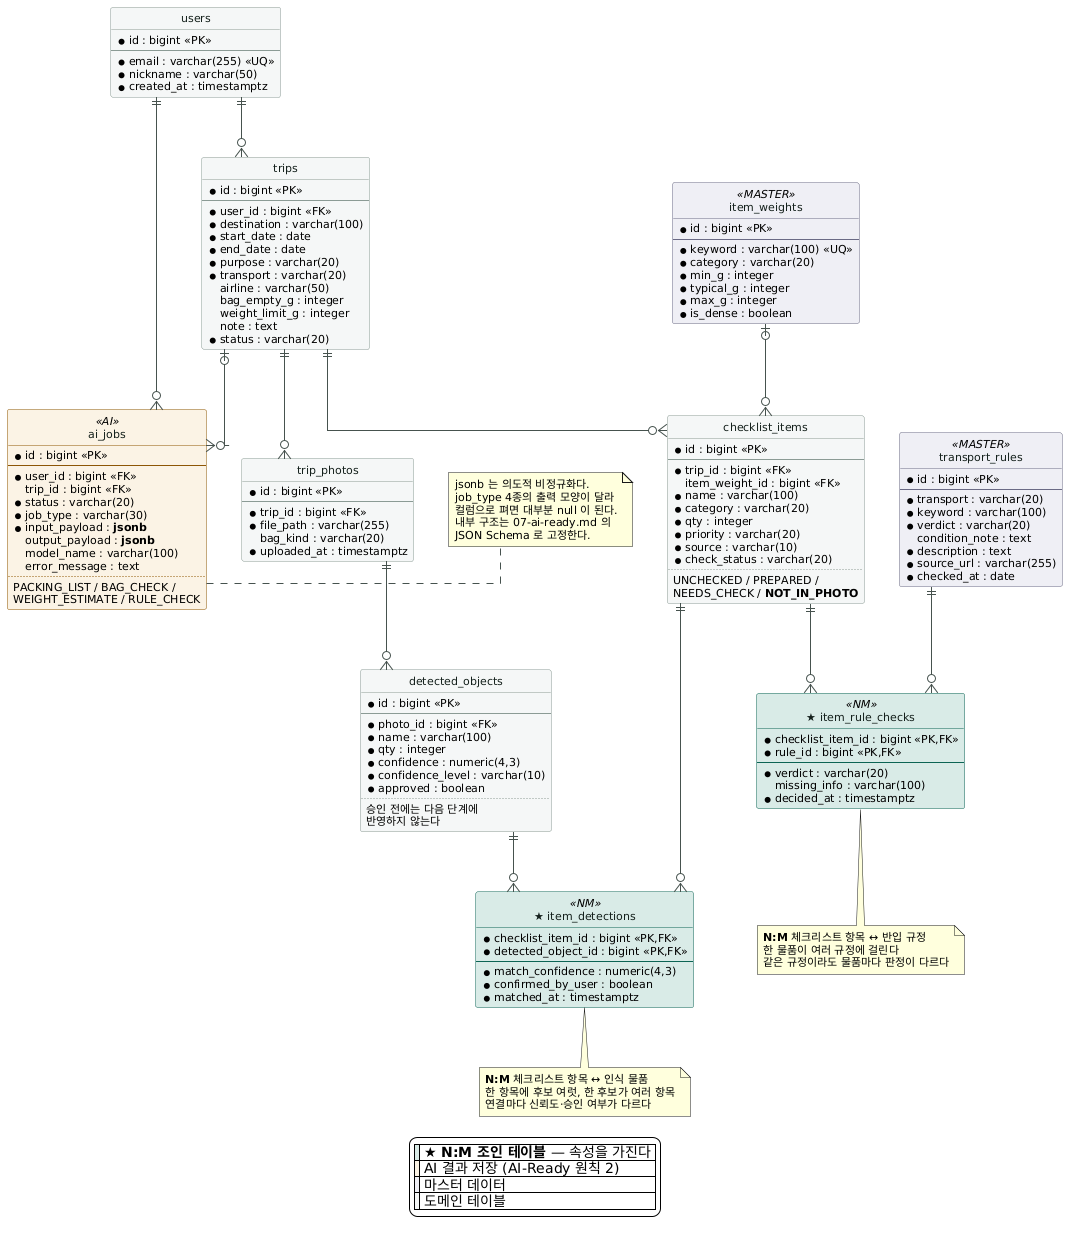
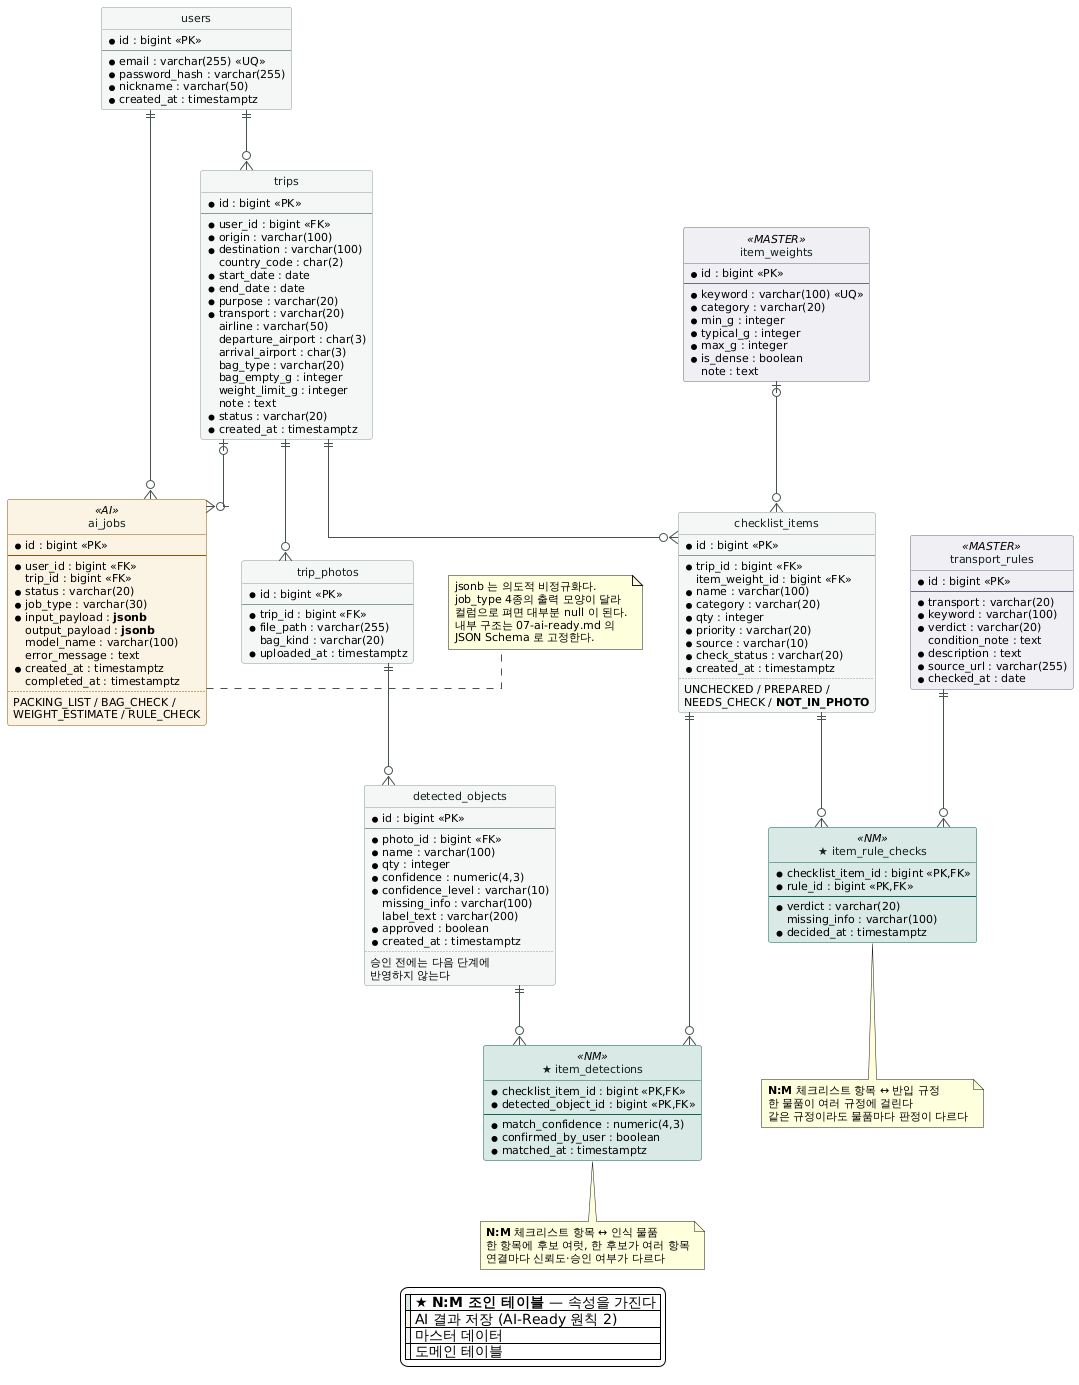
docs(db): users 에 password_hash 를 두고 인증 범위 서술을 맞춘다 (#34)
Why:
회원 개념은 데이터 모델에 남기되 이번 데모에서 인증 흐름은 구현하지 않는다.
나중에 로그인을 붙일 때 스키마를 바꾸지 않아도 되게 자리를 미리 만든다.

What:
- users 에 password_hash VARCHAR(255) NOT NULL 추가 (DSL · schema.sql · puml 3종 일치)
- seed.sql 시드 사용자에 bcrypt 해시 삽입, 평문 저장하지 않음을 주석으로 명시
- 01-service-plan · 02-use-case · 03-wireframe · 06-api-spec · README 의
  "로그인 없음" 서술을 "이번 데모에서 인증 흐름 미구현"으로 정정
- 05-erd.png · svg 를 DSL 기준으로 재렌더 (trips·checklist_items·
  detected_objects·ai_jobs 의 created_at 등 누락 컬럼도 함께 반영)

Changed region(s): [[0.0, 0.0, 1.0, 0.8314], [0.3374, 0.5235, 0.6747, 1.0]]

diff --git a/docs/02-use-case.md b/docs/02-use-case.md
@@ -27,8 +27,8 @@
 
 ## Actor와 연결 검증
 
-사람 Actor는 **여행자 한 명**이다. 회원·비회원을 구분하지 않기로 했으므로
-(로그인이 없다, [`01-service-plan.md`](01-service-plan.md)) 인증 상태에 따른
+사람 Actor는 **여행자 한 명**이다. 이번 데모에서 인증 흐름을 구현하지 않으므로
+(로그인 화면이 없다, [`01-service-plan.md`](01-service-plan.md)) 인증 상태에 따른
 분기도 없다. 모든 사용자가 같은 경로를 쓴다.
 
 | Actor | 구분 | 연결 Use-Case | 근거 |
@@ -45,7 +45,7 @@ AI가 아니라 버전 관리된 공식 규정을 사용하는 규칙 엔진이 
 
 | ID | 기능 ID | Use-Case | Actor | 목적 | 우선순위 |
 | --- | --- | --- | --- | --- | --- |
-| UC-01 | F-01 | ~~회원가입 및 로그인~~ | — | **범위 제외.** 회원·비회원을 구분하지 않기로 해 로그인 화면을 두지 않는다. 시드 사용자 한 명으로 고정한다 | 제외 |
+| UC-01 | F-01 | ~~회원가입 및 로그인~~ | — | **범위 제외.** `users` 에 `password_hash` 자리는 두었지만 이번 데모에서 로그인 화면과 인증 흐름을 만들지 않는다. 시드 사용자 한 명으로 고정한다 | 제외 |
 | UC-02 | F-02 | 여행 등록 | 여행자 | 추천과 수하물 판단에 필요한 여행 조건을 구조화한다 | Must |
 | UC-03 | F-03 | 짐 사진 등록 | 여행자 | 물품 인식에 적합한 이미지를 안정적으로 수집한다 | Must |
 | UC-04 | F-04 | **AI 사진 속 물품 인식** | 여행자 ↔ **AI 서비스** | 물품 후보와 수량을 구조화해 비교·무게 계산의 기초자료를 만든다 | Must |
@@ -67,7 +67,7 @@ AI가 아니라 버전 관리된 공식 규정을 사용하는 규칙 엔진이 
 | 항목 | 내용 |
 | --- | --- |
 | Actor | 여행자 |
-| 사전 조건 | 없음. 로그인하지 않는다 |
+| 사전 조건 | 없음. 이번 데모에는 로그인 절차가 없다 |
 | 기본 흐름 | 1. 일정·출발지·도착지·목적·이동수단을 입력한다<br>2. 항공 이용이면 항공사·공항·경유지를 입력한다<br>3. 가방 유형·허용 한도와 선택 정보를 입력한다<br>4. 시스템이 날짜·노선·필수값을 검증한다<br>5. 여행 프로필을 저장한다 |
 | 대체·예외 흐름 | 귀국일 역전·필수값 누락은 수정을 요청한다. 항공사·경유지가 없으면 일반 기준만 제공하고 정확도 제한을 표시한다 |
 | 사후 조건 | 여행 프로필이 추천·규정 조회의 입력으로 저장된다 |

diff --git a/docs/01-service-plan.md b/docs/01-service-plan.md
@@ -92,15 +92,17 @@ PDF 기준인 *"주요 웹 화면 1~2개 극소 구현"* 이 **최소선**이고
 | --- | --- |
 | **이번에 설계할 것** | Use-Case 10개 · 화면 10개 · ERD · REST API 명세 · AI 입출력 JSON Schema와 프롬프트 · 시스템 아키텍처 |
 | **이번에 구현할 것 (데모 대상)** | **화면 10개 전체** (`S-01`~`S-10`)와 이를 받치는 Mock API·DB 연동.<br>다만 우선순위를 둔다 — **1차 `S-01`~`S-06`**(데모 주 경로), 2차 `S-07`·`S-08`, 3차 `S-09`·`S-10`.<br>자세한 기준은 [`03-wireframe.md`](03-wireframe.md) |
-| **하지 않을 것** | **실제 AI 호출** (전부 Mock) · 이미지 인식 모델 · **로그인과 회원 구분**(시드 사용자 한 명 고정, 화면 없음) · 챗봇 대화 이력 저장 · 가족·단체 기능 · 항공권 예약 연동 · 실시간 카메라 검수 |
+| **하지 않을 것** | **실제 AI 호출** (전부 Mock) · 이미지 인식 모델 · **로그인 인증 흐름**(`users.password_hash` 자리는 두되 로그인 화면·세션 없이 시드 사용자 한 명 고정) · 챗봇 대화 이력 저장 · 가족·단체 기능 · 항공권 예약 연동 · 실시간 카메라 검수 |
 
 **"하지 않을 것"을 명시하는 이유**는 발표에서 *"왜 이건 없냐"* 는 질문을 막기 위해서다.
 전부 [`07-ai-ready.md`](07-ai-ready.md)의 향후 로드맵으로 넘긴다.
 
-> **로그인을 아예 두지 않는 이유**는 채점 항목이 아니기 때문이다. 3일 일정에서
+> **인증 흐름을 구현하지 않는 이유**는 채점 항목이 아니기 때문이다. 3일 일정에서
 > Spring Security를 붙이는 시간에 설계 문서와 데모를 다듬는 편이 점수가 높다.
-> 회원·비회원을 구분하지 않으므로 **로그인 화면도 만들지 않는다.** 시드 사용자
-> 한 명으로 고정하고, 모든 사용자가 같은 경로를 쓴다.
+> 다만 **데이터 모델에는 회원 개념을 남긴다.** `users` 에 `password_hash` 자리를
+> 두어 나중에 인증을 붙일 때 스키마를 바꾸지 않아도 되게 했다
+> ([`05-erd.md`](05-erd.md)). **이번 데모에서는 로그인 화면을 만들지 않고**
+> 시드 사용자 한 명으로 고정하며, 모든 사용자가 같은 경로를 쓴다.
 >
 > **챗봇(`S-09`)은 범위에 넣는다.** 다만 3차이므로 시간이 모자라면 가장 먼저
 > 버린다. 대화 이력 저장과 맥락 유지는 하지 않는다 — 질문 하나에 답 하나다.

diff --git a/docs/03-wireframe.md b/docs/03-wireframe.md
@@ -32,8 +32,9 @@ Use-Case는 [`02-use-case.md`](02-use-case.md)와 짝이다. 주 경로인
 
 ★ = AI 확장 지점이 있는 화면
 
-**로그인 화면은 없다.** 회원·비회원을 구분하지 않기로 했다
-([`01-service-plan.md`](01-service-plan.md)). 시드 사용자 한 명으로 고정한다.
+**로그인 화면은 없다.** 스키마에는 `users.password_hash` 자리를 두었지만 이번
+데모에서 인증 흐름을 구현하지 않는다 ([`01-service-plan.md`](01-service-plan.md)).
+시드 사용자 한 명으로 고정한다.
 
 ### 사진이 체크리스트보다 먼저인 이유
 
@@ -99,7 +100,7 @@ Use-Case는 [`02-use-case.md`](02-use-case.md)와 짝이다. 주 경로인
 | --- | --- | --- |
 | 순서 | 체크리스트를 먼저 확정하게 해서 *"사진 한 장으로"* 라는 약속과 멀어졌다 | 사진 → 인식 → 체크리스트 생성으로 되돌렸다 |
 | 추천의 입력 | 여행 정보만 보고 전체 목록을 추천해 이미 챙긴 물건도 다시 제안했다 | 승인된 인식 결과를 입력에 넣어 **부족한 것만** 추천한다 |
-| 회원 구분 | 로그인·비회원 분기가 주 경로를 갈랐다 | 구분을 없앴다. 모든 사용자가 같은 경로를 쓴다 |
+| 회원 구분 | 로그인·비회원 분기가 주 경로를 갈랐다 | 화면에서 분기를 없앴다. 회원 개념은 스키마에만 남기고 모든 사용자가 같은 경로를 쓴다 |
 | 사용자 관점 | API 경로·상태 코드·폴링이 화면 이동과 섞여 있었다 | 화면, 사용자 행동, 선택, 사용자가 보는 처리 상태만 남겼다 |
 | 입력 오류 | 여행 등록 오류에서 흐름이 종료됐다 | 입력값을 유지한 채 오류 항목 수정으로 되돌아간다 |
 | 재방문 | 진행 중 여행을 어디서 이어가는지 불명확했다 | S-01에서 마지막 저장 단계(S-03~S-06)로 복귀한다 |

diff --git a/docs/05-erd.md b/docs/05-erd.md
@@ -11,8 +11,8 @@
 
 - 원본: [`images/05-erd.puml`](images/05-erd.puml) (PlantUML)
 - 벡터: [`images/05-erd.svg`](images/05-erd.svg) — 발표 슬라이드용
-- **PNG·SVG 는 재렌더 전이다 (TBD).** `.puml` 에 `trips` 의 `origin` · `country_code` · `departure_airport` ·
-  `arrival_airport` · `bag_type` 을 2026-09-03 에 추가했다. 아래 DSL 과 `schema.sql` 이 정본이다
+- **PNG·SVG 는 2026-09-03 에 아래 DSL 기준으로 재렌더했다.** DSL · `.puml` · `schema.sql`
+  세 파일의 테이블 10개와 모든 컬럼이 일치한다. 정본은 아래 DSL 이다
 - dbdiagram.io 링크: TBD — 아래 DSL을 붙여 넣으면 즉시 생성된다
 
 > 다이어그램은 **PlantUML로 그렸다.** Use-Case·User Flow·아키텍처와 같은 도구라
@@ -30,6 +30,7 @@
 Table users {
   id            bigserial   [pk]
   email         varchar(255)[not null, unique]
+  password_hash varchar(255)[not null]  // bcrypt 해시. 인증 흐름은 범위 밖 (01-service-plan.md)
   nickname      varchar(50) [not null]
   created_at    timestamptz [not null, default: `now()`]
 }

diff --git a/docs/06-api-spec.md b/docs/06-api-spec.md
@@ -17,7 +17,7 @@
 | 요청·응답 형식 | `application/json; charset=utf-8` |
 | 경로 | 소문자 복수형 명사. 동사를 쓰지 않는다 (`/api/summaries` O, `/api/getSummary` X). 예외: `/inspection` 은 자원 목록이 아니라 여행 하나의 **집계 결과**라 단수다 |
 | 시각 형식 | ISO 8601 UTC (`2026-09-02T05:30:00Z`) |
-| 인증 | **구현하지 않는다.** 모든 요청은 시드 사용자(`users.id = 1`)로 처리한다. 채점 항목이 아니라 3일 일정에서 비용만 든다 ([`01-service-plan.md`](01-service-plan.md) 범위) |
+| 인증 | **이번 데모에서 구현하지 않는다.** 스키마에는 `users.password_hash` 자리를 두었지만 토큰·세션을 발급하지 않고, 모든 요청은 시드 사용자(`users.id = 1`)로 처리한다. 채점 항목이 아니라 3일 일정에서 비용만 든다 ([`01-service-plan.md`](01-service-plan.md) 범위) |
 
 ### Status Code 사용 규칙
 

diff --git a/README.md b/README.md
@@ -296,6 +296,6 @@ Swagger UI는 <http://localhost:8080/swagger-ui.html>.
 | AI 작업 엔드포인트 | `POST /api/ai-jobs` 하나 + `job_type` | [ADR 0003](docs/adr/0003-ai-job-endpoint.md) |
 | 사진 저장 | 로컬 디렉터리 (`UPLOAD_DIR`) — 데모가 네트워크에 묶이지 않게 | `backend/.env.example` |
 | 날씨 | Open-Meteo · **API 키 불필요** · 16일 예보 + 계절 예보 7개월 | `backend/.env.example` |
-| 인증 | 구현하지 않음. 시드 사용자 1명 고정 (채점 항목 아님) | — |
+| 인증 | 이번 데모에서 구현하지 않음. 스키마에 `password_hash` 자리만 두고 시드 사용자 1명 고정 (채점 항목 아님) | [05-erd.md](docs/05-erd.md) |
 
 > React 사용 가능 여부는 1일차에 확인했다. 사용해도 된다.
